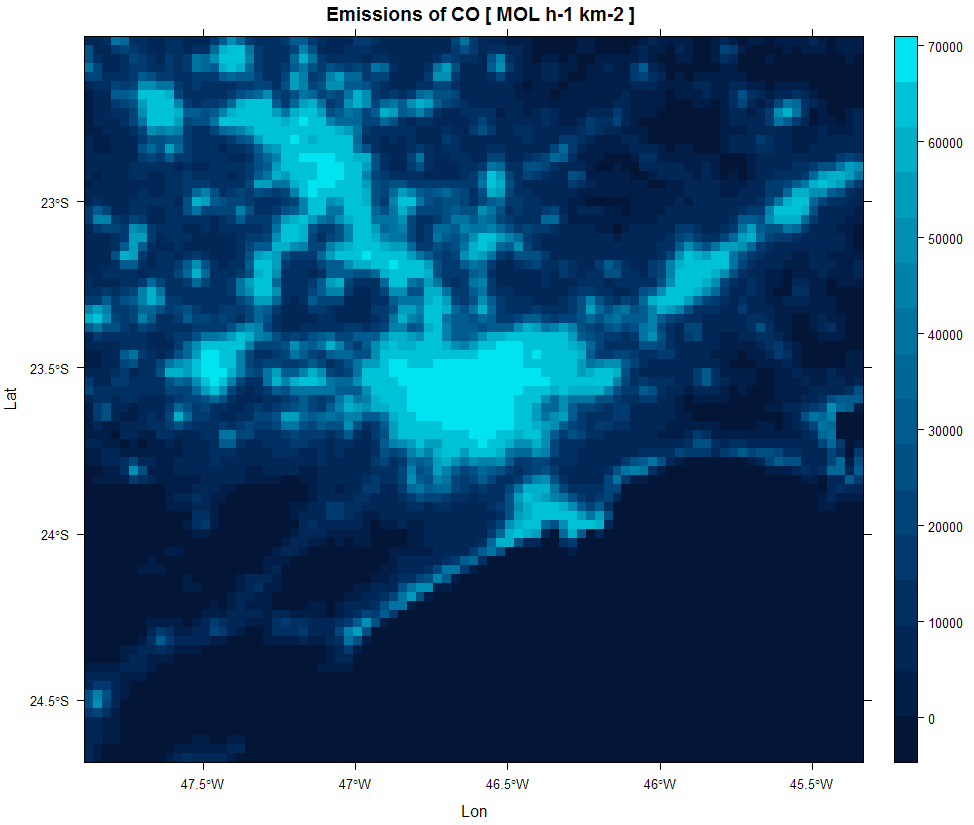
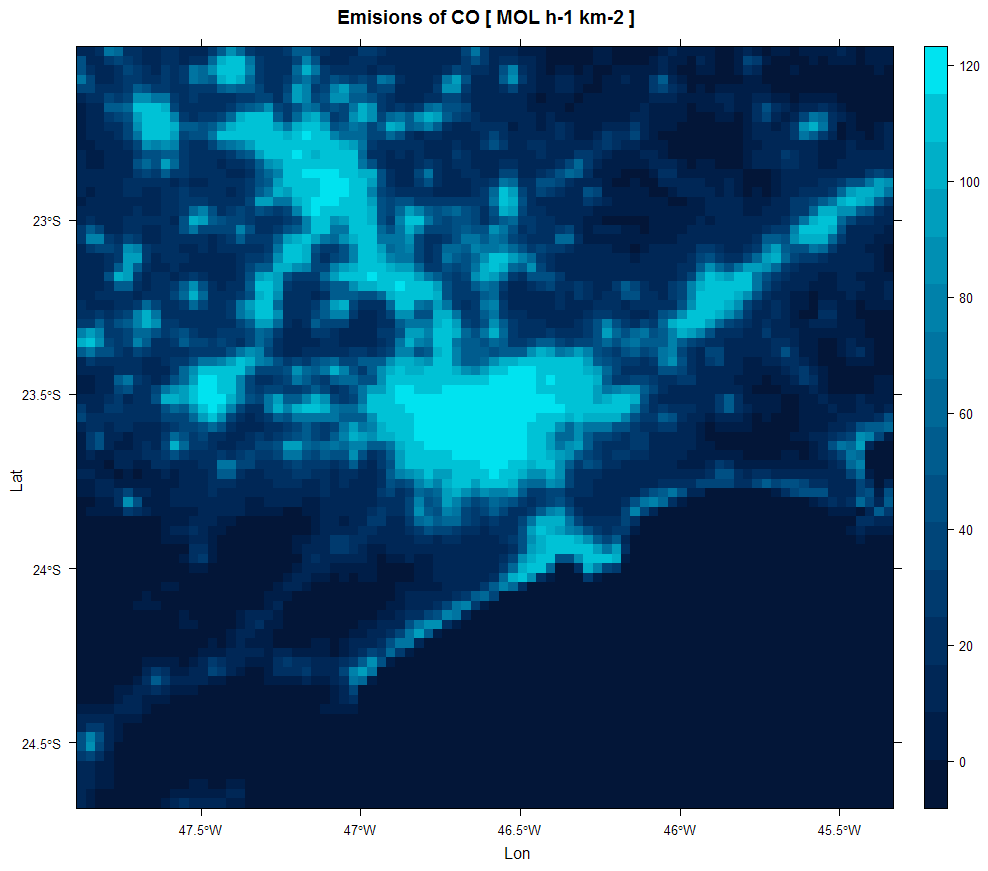
doc update 2

diff --git a/docs/index.html b/docs/index.html
@@ -154,38 +154,39 @@
 <a class="sourceLine" id="cb5-27" data-line-number="27"><span class="co"># Flex motorcycles             0.75 g/km 0.0000 g/km</span></a>
 <a class="sourceLine" id="cb5-28" data-line-number="28"></a>
 <a class="sourceLine" id="cb5-29" data-line-number="29">TOTAL  &lt;-<span class="st"> </span><span class="kw"><a href="reference/totalEmission.html">totalEmission</a></span>(fleet,EF,<span class="dt">pol =</span> <span class="kw">c</span>(<span class="st">"CO"</span>),<span class="dt">verbose =</span> T)</a>
-<a class="sourceLine" id="cb5-30" data-line-number="30"><span class="co"># [1] "Total of CO : 1128297.0993334 t year-1"</span></a></code></pre></div>
+<a class="sourceLine" id="cb5-30" data-line-number="30"><span class="co"># Total of CO : 1128297.0993334 t year-1</span></a></code></pre></div>
 <p><strong>II.</strong> Spatial distribution: The package has functions to read information from tables, georeferenced images (tiff), shapefiles (sh), OpenStreet maps (osm), global inventories in NetCDF format (nc) to calculate point, line and area sources.</p>
 <div class="sourceCode" id="cb6"><pre class="sourceCode r"><code class="sourceCode r"><a class="sourceLine" id="cb6-1" data-line-number="1">raster &lt;-<span class="st"> </span>raster<span class="op">::</span><span class="kw"><a href="http://www.rdocumentation.org/packages/raster/topics/raster">raster</a></span>(<span class="kw">paste</span>(<span class="kw">system.file</span>(<span class="st">"extdata"</span>, <span class="dt">package =</span> <span class="st">"EmissV"</span>),</a>
 <a class="sourceLine" id="cb6-2" data-line-number="2">                         <span class="st">"/dmsp.tiff"</span>,<span class="dt">sep=</span><span class="st">""</span>))</a>
 <a class="sourceLine" id="cb6-3" data-line-number="3"></a>
 <a class="sourceLine" id="cb6-4" data-line-number="4">grid   &lt;-<span class="st"> </span><span class="kw"><a href="reference/gridInfo.html">gridInfo</a></span>(<span class="kw">paste</span>(<span class="kw">system.file</span>(<span class="st">"extdata"</span>, <span class="dt">package =</span> <span class="st">"EmissV"</span>),</a>
 <a class="sourceLine" id="cb6-5" data-line-number="5">                   <span class="st">"/wrfinput_d02"</span>,<span class="dt">sep=</span><span class="st">""</span>))</a>
-<a class="sourceLine" id="cb6-6" data-line-number="6"><span class="co"># [1] "Grid information from: .../EmissV/extdata/wrfinput_d02"</span></a>
+<a class="sourceLine" id="cb6-6" data-line-number="6"><span class="co"># Grid information from: .../EmissV/extdata/wrfinput_d02</span></a>
 <a class="sourceLine" id="cb6-7" data-line-number="7"></a>
 <a class="sourceLine" id="cb6-8" data-line-number="8">shape  &lt;-<span class="st"> </span>raster<span class="op">::</span><span class="kw"><a href="http://www.rdocumentation.org/packages/raster/topics/shapefile">shapefile</a></span>(<span class="kw">paste</span>(<span class="kw">system.file</span>(<span class="st">"extdata"</span>, <span class="dt">package =</span> <span class="st">"EmissV"</span>),</a>
 <a class="sourceLine" id="cb6-9" data-line-number="9">                            <span class="st">"/BR.shp"</span>,<span class="dt">sep=</span><span class="st">""</span>),<span class="dt">verbose =</span> F)[<span class="dv">12</span>,<span class="dv">1</span>]</a>
 <a class="sourceLine" id="cb6-10" data-line-number="10">Minas_Gerais &lt;-<span class="st"> </span><span class="kw"><a href="reference/areaSource.html">areaSource</a></span>(shape,raster,grid,<span class="dt">name =</span> <span class="st">"Minas Gerais"</span>)</a>
-<a class="sourceLine" id="cb6-11" data-line-number="11"><span class="co"># [1] "processing Minas Gerais area ... "</span></a>
-<a class="sourceLine" id="cb6-12" data-line-number="12"><span class="co"># [1] "fraction of Minas Gerais area inside the domain = 0.0145921494236101"</span></a>
+<a class="sourceLine" id="cb6-11" data-line-number="11"><span class="co"># processing Minas Gerais area ...</span></a>
+<a class="sourceLine" id="cb6-12" data-line-number="12"><span class="co"># fraction of Minas Gerais area inside the domain = 0.0145921494236101</span></a>
 <a class="sourceLine" id="cb6-13" data-line-number="13"></a>
 <a class="sourceLine" id="cb6-14" data-line-number="14">shape  &lt;-<span class="st"> </span>raster<span class="op">::</span><span class="kw"><a href="http://www.rdocumentation.org/packages/raster/topics/shapefile">shapefile</a></span>(<span class="kw">paste</span>(<span class="kw">system.file</span>(<span class="st">"extdata"</span>, <span class="dt">package =</span> <span class="st">"EmissV"</span>),</a>
 <a class="sourceLine" id="cb6-15" data-line-number="15">                            <span class="st">"/BR.shp"</span>,<span class="dt">sep=</span><span class="st">""</span>),<span class="dt">verbose =</span> F)[<span class="dv">22</span>,<span class="dv">1</span>]</a>
 <a class="sourceLine" id="cb6-16" data-line-number="16">Sao_Paulo &lt;-<span class="st"> </span><span class="kw"><a href="reference/areaSource.html">areaSource</a></span>(shape,raster,grid,<span class="dt">name =</span> <span class="st">"Sao Paulo"</span>)</a>
-<a class="sourceLine" id="cb6-17" data-line-number="17"><span class="co"># [1] "processing Sao Paulo area ... "</span></a>
-<a class="sourceLine" id="cb6-18" data-line-number="18"><span class="co"># [1] "fraction of Sao Paulo area inside the domain = 0.474658563750987"</span></a>
+<a class="sourceLine" id="cb6-17" data-line-number="17"><span class="co"># processing Sao Paulo area ...</span></a>
+<a class="sourceLine" id="cb6-18" data-line-number="18"><span class="co"># fraction of Sao Paulo area inside the domain = 0.474658563750987</span></a>
 <a class="sourceLine" id="cb6-19" data-line-number="19"></a>
-<a class="sourceLine" id="cb6-20" data-line-number="20">sp<span class="op">::</span><span class="kw"><a href="http://www.rdocumentation.org/packages/sp/topics/spplot">spplot</a></span>(raster<span class="op">::</span><span class="kw"><a href="http://www.rdocumentation.org/packages/raster/topics/merge">merge</a></span>(TOTAL[[<span class="dv">1</span>]][[<span class="dv">1</span>]] <span class="op">*</span><span class="st"> </span>Sao_Paulo, TOTAL[[<span class="dv">1</span>]][[<span class="dv">2</span>]] <span class="op">*</span><span class="st"> </span>Minas_Gerais),</a>
-<a class="sourceLine" id="cb6-21" data-line-number="21">           <span class="dt">scales =</span> <span class="kw">list</span>(<span class="dt">draw=</span><span class="ot">TRUE</span>),<span class="dt">ylab=</span><span class="st">"Lat"</span>,<span class="dt">xlab=</span><span class="st">"Lon"</span>,</a>
-<a class="sourceLine" id="cb6-22" data-line-number="22">           <span class="dt">main=</span><span class="kw">list</span>(<span class="dt">label=</span><span class="st">"Emissions of CO [g/d]"</span>),</a>
-<a class="sourceLine" id="cb6-23" data-line-number="23">           <span class="dt">col.regions =</span> <span class="kw">c</span>(<span class="st">"#031638"</span>,<span class="st">"#001E48"</span>,<span class="st">"#002756"</span>,<span class="st">"#003062"</span>,</a>
-<a class="sourceLine" id="cb6-24" data-line-number="24">                           <span class="st">"#003A6E"</span>,<span class="st">"#004579"</span>,<span class="st">"#005084"</span>,<span class="st">"#005C8E"</span>,</a>
-<a class="sourceLine" id="cb6-25" data-line-number="25">                           <span class="st">"#006897"</span>,<span class="st">"#0074A1"</span>,<span class="st">"#0081AA"</span>,<span class="st">"#008FB3"</span>,</a>
-<a class="sourceLine" id="cb6-26" data-line-number="26">                           <span class="st">"#009EBD"</span>,<span class="st">"#00AFC8"</span>,<span class="st">"#00C2D6"</span>,<span class="st">"#00E3F0"</span>))</a></code></pre></div>
+<a class="sourceLine" id="cb6-20" data-line-number="20">sp<span class="op">::</span><span class="kw"><a href="http://www.rdocumentation.org/packages/sp/topics/spplot">spplot</a></span>(raster<span class="op">::</span><span class="kw"><a href="http://www.rdocumentation.org/packages/raster/topics/merge">merge</a></span>(<span class="kw">drop_units</span>(TOTAL<span class="op">$</span>CO[[<span class="dv">1</span>]]) <span class="op">*</span><span class="st"> </span>Sao_Paulo, </a>
+<a class="sourceLine" id="cb6-21" data-line-number="21">                         <span class="kw">drop_units</span>(TOTAL<span class="op">$</span>CO[[<span class="dv">2</span>]]) <span class="op">*</span><span class="st"> </span>Minas_Gerais),</a>
+<a class="sourceLine" id="cb6-22" data-line-number="22">           <span class="dt">scales =</span> <span class="kw">list</span>(<span class="dt">draw=</span><span class="ot">TRUE</span>),<span class="dt">ylab=</span><span class="st">"Lat"</span>,<span class="dt">xlab=</span><span class="st">"Lon"</span>,</a>
+<a class="sourceLine" id="cb6-23" data-line-number="23">           <span class="dt">main=</span><span class="kw">list</span>(<span class="dt">label=</span><span class="st">"Emissions of CO [g/d]"</span>),</a>
+<a class="sourceLine" id="cb6-24" data-line-number="24">           <span class="dt">col.regions =</span> <span class="kw">c</span>(<span class="st">"#031638"</span>,<span class="st">"#001E48"</span>,<span class="st">"#002756"</span>,<span class="st">"#003062"</span>,</a>
+<a class="sourceLine" id="cb6-25" data-line-number="25">                           <span class="st">"#003A6E"</span>,<span class="st">"#004579"</span>,<span class="st">"#005084"</span>,<span class="st">"#005C8E"</span>,</a>
+<a class="sourceLine" id="cb6-26" data-line-number="26">                           <span class="st">"#006897"</span>,<span class="st">"#0074A1"</span>,<span class="st">"#0081AA"</span>,<span class="st">"#008FB3"</span>,</a>
+<a class="sourceLine" id="cb6-27" data-line-number="27">                           <span class="st">"#009EBD"</span>,<span class="st">"#00AFC8"</span>,<span class="st">"#00C2D6"</span>,<span class="st">"#00E3F0"</span>))</a></code></pre></div>
 <p><img src="https://raw.githubusercontent.com/atmoschem/EmissV/master/CO_all.png" alt="Figure 1 - Emissions of CO using nocturnal lights."></p>
 <p><strong>III.</strong> Emission calculation: calculate the final emission from all different sources and converts to model units and resolution.</p>
 <div class="sourceCode" id="cb7"><pre class="sourceCode r"><code class="sourceCode r"><a class="sourceLine" id="cb7-1" data-line-number="1">CO_emissions &lt;-<span class="st"> </span><span class="kw"><a href="reference/emission.html">emission</a></span>(TOTAL,<span class="st">"CO"</span>,<span class="kw">list</span>(<span class="dt">SP =</span> Sao_Paulo, <span class="dt">MG =</span> Minas_Gerais),grid,<span class="dt">mm=</span><span class="dv">28</span>, <span class="dt">plot =</span> T)</a>
-<a class="sourceLine" id="cb7-2" data-line-number="2"><span class="co"># [1] "calculating emissions for CO using molar mass = 28 ..."</span></a></code></pre></div>
+<a class="sourceLine" id="cb7-2" data-line-number="2"><span class="co"># calculating emissions for CO using molar mass = 28 ...</span></a></code></pre></div>
 <p><img src="https://raw.githubusercontent.com/atmoschem/EmissV/master/CO_final.png" alt="Figure 2 - CO emissions ready for use in air quality model."></p>
 <p><strong>IV.</strong> Temporal distribution: the package has a set of hourly profiles that represent the mean activity for each day of the week calculated from traffic counts of toll stations located in São Paulo city.</p>
 <div class="sourceCode" id="cb8"><pre class="sourceCode r"><code class="sourceCode r"><a class="sourceLine" id="cb8-1" data-line-number="1"><span class="kw">data</span>(perfil)</a>

diff --git a/docs/paper.html b/docs/paper.html
@@ -219,11 +219,11 @@
 <a class="sourceLine" id="cb1-28" data-line-number="28"><span class="co"># Flex Motorcycles             0.75 g/km 0.0000 g/km</span></a>
 <a class="sourceLine" id="cb1-29" data-line-number="29"></a>
 <a class="sourceLine" id="cb1-30" data-line-number="30">TOTAL  &lt;-<span class="st"> </span><span class="kw"><a href="reference/totalEmission.html">totalEmission</a></span>(fleet,EF,<span class="dt">pol =</span> <span class="kw">c</span>(<span class="st">"CO"</span>),<span class="dt">verbose =</span> T)</a>
-<a class="sourceLine" id="cb1-31" data-line-number="31"><span class="co"># [1] "Total of CO : 1128297.0993334 t year-1"</span></a>
+<a class="sourceLine" id="cb1-31" data-line-number="31"><span class="co"># Total of CO : 1128297.0993334 t year-1</span></a>
 <a class="sourceLine" id="cb1-32" data-line-number="32"></a>
 <a class="sourceLine" id="cb1-33" data-line-number="33">grid   &lt;-<span class="st"> </span><span class="kw"><a href="reference/gridInfo.html">gridInfo</a></span>(<span class="kw">paste</span>(<span class="kw">system.file</span>(<span class="st">"extdata"</span>, <span class="dt">package =</span> <span class="st">"EmissV"</span>),</a>
 <a class="sourceLine" id="cb1-34" data-line-number="34">                   <span class="st">"/wrfinput_d02"</span>,<span class="dt">sep=</span><span class="st">""</span>))</a>
-<a class="sourceLine" id="cb1-35" data-line-number="35"><span class="co"># [1] "Grid information from: .../EmissV/extdata/wrfinput_d02"</span></a>
+<a class="sourceLine" id="cb1-35" data-line-number="35"><span class="co"># Grid information from: .../EmissV/extdata/wrfinput_d02</span></a>
 <a class="sourceLine" id="cb1-36" data-line-number="36"></a>
 <a class="sourceLine" id="cb1-37" data-line-number="37">raster &lt;-<span class="st"> </span>raster<span class="op">::</span><span class="kw"><a href="http://www.rdocumentation.org/packages/raster/topics/raster">raster</a></span>(<span class="kw">paste</span>(<span class="kw">system.file</span>(<span class="st">"extdata"</span>, <span class="dt">package =</span> <span class="st">"EmissV"</span>),</a>
 <a class="sourceLine" id="cb1-38" data-line-number="38">                         <span class="st">"/dmsp_hi-res.tiff"</span>,<span class="dt">sep=</span><span class="st">""</span>))</a>
@@ -232,27 +232,28 @@
 <a class="sourceLine" id="cb1-41" data-line-number="41">                            <span class="st">"/BR.shp"</span>,<span class="dt">sep=</span><span class="st">""</span>),<span class="dt">verbose =</span> F)[<span class="dv">12</span>,<span class="dv">1</span>]</a>
 <a class="sourceLine" id="cb1-42" data-line-number="42">                            </a>
 <a class="sourceLine" id="cb1-43" data-line-number="43">Minas_Gerais &lt;-<span class="st"> </span><span class="kw"><a href="reference/areaSource.html">areaSource</a></span>(shape,raster,grid,<span class="dt">name =</span> <span class="st">"Minas Gerais"</span>)</a>
-<a class="sourceLine" id="cb1-44" data-line-number="44"><span class="co"># [1] "processing Minas Gerais area ... "</span></a>
-<a class="sourceLine" id="cb1-45" data-line-number="45"><span class="co"># [1] "fraction of Minas Gerais area inside the domain = 0.0147607845622591"</span></a>
+<a class="sourceLine" id="cb1-44" data-line-number="44"><span class="co"># processing Minas Gerais area ...</span></a>
+<a class="sourceLine" id="cb1-45" data-line-number="45"><span class="co"># fraction of Minas Gerais area inside the domain = 0.0147607845622591</span></a>
 <a class="sourceLine" id="cb1-46" data-line-number="46"></a>
 <a class="sourceLine" id="cb1-47" data-line-number="47">shape  &lt;-<span class="st"> </span>raster<span class="op">::</span><span class="kw"><a href="http://www.rdocumentation.org/packages/raster/topics/shapefile">shapefile</a></span>(<span class="kw">paste</span>(<span class="kw">system.file</span>(<span class="st">"extdata"</span>, <span class="dt">package =</span> <span class="st">"EmissV"</span>),</a>
 <a class="sourceLine" id="cb1-48" data-line-number="48">                            <span class="st">"/BR.shp"</span>,<span class="dt">sep=</span><span class="st">""</span>),<span class="dt">verbose =</span> F)[<span class="dv">22</span>,<span class="dv">1</span>]</a>
 <a class="sourceLine" id="cb1-49" data-line-number="49">                            </a>
 <a class="sourceLine" id="cb1-50" data-line-number="50">Sao_Paulo &lt;-<span class="st"> </span><span class="kw"><a href="reference/areaSource.html">areaSource</a></span>(shape,raster,grid,<span class="dt">name =</span> <span class="st">"Sao Paulo"</span>)</a>
-<a class="sourceLine" id="cb1-51" data-line-number="51"><span class="co"># [1] "processing Sao Paulo area ... "</span></a>
-<a class="sourceLine" id="cb1-52" data-line-number="52"><span class="co"># [1] "fraction of Sao Paulo area inside the domain = 0.473260323300595"</span></a>
+<a class="sourceLine" id="cb1-51" data-line-number="51"><span class="co"># processing Sao Paulo area ...</span></a>
+<a class="sourceLine" id="cb1-52" data-line-number="52"><span class="co"># fraction of Sao Paulo area inside the domain = 0.473260323300595</span></a>
 <a class="sourceLine" id="cb1-53" data-line-number="53"></a>
-<a class="sourceLine" id="cb1-54" data-line-number="54">sp<span class="op">::</span><span class="kw"><a href="http://www.rdocumentation.org/packages/sp/topics/spplot">spplot</a></span>(raster<span class="op">::</span><span class="kw"><a href="http://www.rdocumentation.org/packages/raster/topics/merge">merge</a></span>(TOTAL[[<span class="dv">1</span>]][[<span class="dv">1</span>]] <span class="op">*</span><span class="st"> </span>Sao_Paulo, TOTAL[[<span class="dv">1</span>]][[<span class="dv">2</span>]] <span class="op">*</span><span class="st"> </span>Minas_Gerais),</a>
-<a class="sourceLine" id="cb1-55" data-line-number="55">           <span class="dt">scales =</span> <span class="kw">list</span>(<span class="dt">draw=</span><span class="ot">TRUE</span>),<span class="dt">ylab=</span><span class="st">"Lat"</span>,<span class="dt">xlab=</span><span class="st">"Lon"</span>,</a>
-<a class="sourceLine" id="cb1-56" data-line-number="56">           <span class="dt">main=</span><span class="kw">list</span>(<span class="dt">label=</span><span class="st">"Emissions of CO [g/d]"</span>),</a>
-<a class="sourceLine" id="cb1-57" data-line-number="57">           <span class="dt">col.regions =</span> <span class="kw">c</span>(<span class="st">"#031638"</span>,<span class="st">"#001E48"</span>,<span class="st">"#002756"</span>,<span class="st">"#003062"</span>,</a>
-<a class="sourceLine" id="cb1-58" data-line-number="58">                           <span class="st">"#003A6E"</span>,<span class="st">"#004579"</span>,<span class="st">"#005084"</span>,<span class="st">"#005C8E"</span>,</a>
-<a class="sourceLine" id="cb1-59" data-line-number="59">                           <span class="st">"#006897"</span>,<span class="st">"#0074A1"</span>,<span class="st">"#0081AA"</span>,<span class="st">"#008FB3"</span>,</a>
-<a class="sourceLine" id="cb1-60" data-line-number="60">                           <span class="st">"#009EBD"</span>,<span class="st">"#00AFC8"</span>,<span class="st">"#00C2D6"</span>,<span class="st">"#00E3F0"</span>))</a>
-<a class="sourceLine" id="cb1-61" data-line-number="61"></a>
-<a class="sourceLine" id="cb1-62" data-line-number="62">CO_emissions &lt;-<span class="st"> </span><span class="kw"><a href="reference/emission.html">emission</a></span>(TOTAL,<span class="st">"CO"</span>,<span class="kw">list</span>(<span class="dt">SP =</span> Sao_Paulo, <span class="dt">MG =</span> Minas_Gerais),</a>
-<a class="sourceLine" id="cb1-63" data-line-number="63">                         grid,<span class="dt">mm=</span><span class="dv">28</span>, <span class="dt">plot =</span> T)</a>
-<a class="sourceLine" id="cb1-64" data-line-number="64"><span class="co"># [1] "calculating emissions for CO using molar mass = 28 ..."</span></a></code></pre></div>
+<a class="sourceLine" id="cb1-54" data-line-number="54">sp<span class="op">::</span><span class="kw"><a href="http://www.rdocumentation.org/packages/sp/topics/spplot">spplot</a></span>(raster<span class="op">::</span><span class="kw"><a href="http://www.rdocumentation.org/packages/raster/topics/merge">merge</a></span>(<span class="kw">drop_units</span>(TOTAL<span class="op">$</span>CO[[<span class="dv">1</span>]]) <span class="op">*</span><span class="st"> </span>Sao_Paulo, </a>
+<a class="sourceLine" id="cb1-55" data-line-number="55">                         <span class="kw">drop_units</span>(TOTAL<span class="op">$</span>CO[[<span class="dv">2</span>]]) <span class="op">*</span><span class="st"> </span>Minas_Gerais),</a>
+<a class="sourceLine" id="cb1-56" data-line-number="56">           <span class="dt">scales =</span> <span class="kw">list</span>(<span class="dt">draw=</span><span class="ot">TRUE</span>),<span class="dt">ylab=</span><span class="st">"Lat"</span>,<span class="dt">xlab=</span><span class="st">"Lon"</span>,</a>
+<a class="sourceLine" id="cb1-57" data-line-number="57">           <span class="co"># main=list(label="Emissions of CO [g/d]"),</span></a>
+<a class="sourceLine" id="cb1-58" data-line-number="58">           <span class="dt">col.regions =</span> <span class="kw">c</span>(<span class="st">"#031638"</span>,<span class="st">"#001E48"</span>,<span class="st">"#002756"</span>,<span class="st">"#003062"</span>,</a>
+<a class="sourceLine" id="cb1-59" data-line-number="59">                           <span class="st">"#003A6E"</span>,<span class="st">"#004579"</span>,<span class="st">"#005084"</span>,<span class="st">"#005C8E"</span>,</a>
+<a class="sourceLine" id="cb1-60" data-line-number="60">                           <span class="st">"#006897"</span>,<span class="st">"#0074A1"</span>,<span class="st">"#0081AA"</span>,<span class="st">"#008FB3"</span>,</a>
+<a class="sourceLine" id="cb1-61" data-line-number="61">                           <span class="st">"#009EBD"</span>,<span class="st">"#00AFC8"</span>,<span class="st">"#00C2D6"</span>,<span class="st">"#00E3F0"</span>))</a>
+<a class="sourceLine" id="cb1-62" data-line-number="62"></a>
+<a class="sourceLine" id="cb1-63" data-line-number="63">CO_emissions &lt;-<span class="st"> </span><span class="kw"><a href="reference/emission.html">emission</a></span>(TOTAL,<span class="st">"CO"</span>,<span class="kw">list</span>(<span class="dt">SP =</span> Sao_Paulo, <span class="dt">MG =</span> Minas_Gerais),</a>
+<a class="sourceLine" id="cb1-64" data-line-number="64">                         grid,<span class="dt">mm=</span><span class="dv">28</span>, <span class="dt">plot =</span> T)</a>
+<a class="sourceLine" id="cb1-65" data-line-number="65"><span class="co"># calculating emissions for CO using molar mass = 28 ...</span></a></code></pre></div>
 <p><img src="https://raw.githubusercontent.com/atmoschem/EmissV/master/CO_all.png" alt="Emissions of CO using nocturnal lights."></p>
 <p><img src="https://raw.githubusercontent.com/atmoschem/EmissV/master/CO_final.png" alt="CO emissions ready for use in air quality model."></p>
 <p>The emissions of CO calculated in this example can be seen in Figure 1 in <code>g/d</code> (by pixel) and the final emissions on Figure 2 in <code>MOL h-1 km-1</code> (by model grid cell). This emissions can be written to WRF-Chem emission files using some package that makes the interface with NetCDF format such as <strong>ncdf4</strong> [@ncdf4], <strong>RNetCDF</strong> [@RNetCDF], <strong>ncdf.tools</strong> [@ncdftools] or with the <strong>eixport</strong> [@eixport].</p>

diff --git a/docs/reference/areaSource.html b/docs/reference/areaSource.html
@@ -156,7 +156,8 @@
 <span class='no'>shape</span>  <span class='kw'>&lt;-</span> <span class='no'>shape</span>[<span class='fl'>22</span>,<span class='fl'>1</span>] <span class='co'># subset for Sao Paulo - BR</span>
 <span class='no'>raster</span> <span class='kw'>&lt;-</span> <span class='kw pkg'>raster</span><span class='kw ns'>::</span><span class='fu'><a href='http://www.rdocumentation.org/packages/raster/topics/raster'>raster</a></span>(<span class='fu'>paste</span>(<span class='fu'>system.file</span>(<span class='st'>"extdata"</span>, <span class='kw'>package</span> <span class='kw'>=</span> <span class='st'>"EmissV"</span>),
                          <span class='st'>"/dmsp.tiff"</span>,<span class='kw'>sep</span><span class='kw'>=</span><span class='st'>""</span>))
-<span class='no'>grid</span>   <span class='kw'>&lt;-</span> <span class='fu'><a href='gridInfo.html'>gridInfo</a></span>(<span class='fu'>paste</span>(<span class='fu'>system.file</span>(<span class='st'>"extdata"</span>, <span class='kw'>package</span> <span class='kw'>=</span> <span class='st'>"EmissV"</span>),<span class='st'>"/wrfinput_d02"</span>,<span class='kw'>sep</span><span class='kw'>=</span><span class='st'>""</span>))</div><div class='output co'>#&gt; Grid information from: C:/Users/Schuch/Documents/EmissV/inst/extdata/wrfinput_d02 </div><div class='input'><span class='no'>SP</span>     <span class='kw'>&lt;-</span> <span class='fu'>areaSource</span>(<span class='no'>shape</span>,<span class='no'>raster</span>,<span class='no'>grid</span>,<span class='kw'>name</span> <span class='kw'>=</span> <span class='st'>"SPMA"</span>)</div><div class='output co'>#&gt; processing SPMA area ... fraction of SPMA area inside the domain = 0.474658563750987</div><div class='input'><span class='kw pkg'>sp</span><span class='kw ns'>::</span><span class='fu'><a href='http://www.rdocumentation.org/packages/sp/topics/spplot'>spplot</a></span>(<span class='no'>SP</span>,<span class='kw'>scales</span> <span class='kw'>=</span> <span class='fu'>list</span>(<span class='kw'>draw</span><span class='kw'>=</span><span class='fl'>TRUE</span>),<span class='kw'>ylab</span><span class='kw'>=</span><span class='st'>"Lat"</span>,<span class='kw'>xlab</span><span class='kw'>=</span><span class='st'>"Lon"</span>,
+<span class='no'>grid</span>   <span class='kw'>&lt;-</span> <span class='fu'><a href='gridInfo.html'>gridInfo</a></span>(<span class='fu'>paste</span>(<span class='fu'>system.file</span>(<span class='st'>"extdata"</span>, <span class='kw'>package</span> <span class='kw'>=</span> <span class='st'>"EmissV"</span>),<span class='st'>"/wrfinput_d02"</span>,<span class='kw'>sep</span><span class='kw'>=</span><span class='st'>""</span>))</div><div class='output co'>#&gt; Grid information from: C:/Users/Schuch/Documents/EmissV/inst/extdata/wrfinput_d02 </div><div class='input'><span class='no'>SP</span>     <span class='kw'>&lt;-</span> <span class='fu'>areaSource</span>(<span class='no'>shape</span>,<span class='no'>raster</span>,<span class='no'>grid</span>,<span class='kw'>name</span> <span class='kw'>=</span> <span class='st'>"SPMA"</span>)</div><div class='output co'>#&gt; processing SPMA area ... 
+#&gt; fraction of SPMA area inside the domain = 0.474658563750987</div><div class='input'><span class='kw pkg'>sp</span><span class='kw ns'>::</span><span class='fu'><a href='http://www.rdocumentation.org/packages/sp/topics/spplot'>spplot</a></span>(<span class='no'>SP</span>,<span class='kw'>scales</span> <span class='kw'>=</span> <span class='fu'>list</span>(<span class='kw'>draw</span><span class='kw'>=</span><span class='fl'>TRUE</span>),<span class='kw'>ylab</span><span class='kw'>=</span><span class='st'>"Lat"</span>,<span class='kw'>xlab</span><span class='kw'>=</span><span class='st'>"Lon"</span>,
            <span class='kw'>main</span><span class='kw'>=</span><span class='fu'>list</span>(<span class='kw'>label</span><span class='kw'>=</span><span class='st'>"Spatial Distribution by Lights for Sao Paulo - Brazil"</span>),
            <span class='kw'>col.regions</span> <span class='kw'>=</span> <span class='fu'>c</span>(<span class='st'>"#031638"</span>,<span class='st'>"#001E48"</span>,<span class='st'>"#002756"</span>,<span class='st'>"#003062"</span>,
                            <span class='st'>"#003A6E"</span>,<span class='st'>"#004579"</span>,<span class='st'>"#005084"</span>,<span class='st'>"#005C8E"</span>,

diff --git a/docs/reference/emission.html b/docs/reference/emission.html
@@ -200,7 +200,9 @@
 <span class='no'>grid</span>   <span class='kw'>&lt;-</span> <span class='fu'><a href='gridInfo.html'>gridInfo</a></span>(<span class='fu'>paste0</span>(<span class='fu'>system.file</span>(<span class='st'>"extdata"</span>, <span class='kw'>package</span> <span class='kw'>=</span> <span class='st'>"EmissV"</span>),<span class='st'>"/wrfinput_d01"</span>))</div><div class='output co'>#&gt; Grid information from: C:/Users/Schuch/Documents/EmissV/inst/extdata/wrfinput_d01 </div><div class='input'><span class='no'>shape</span>  <span class='kw'>&lt;-</span> <span class='kw pkg'>raster</span><span class='kw ns'>::</span><span class='fu'><a href='http://www.rdocumentation.org/packages/raster/topics/shapefile'>shapefile</a></span>(<span class='fu'>paste0</span>(<span class='fu'>system.file</span>(<span class='st'>"extdata"</span>, <span class='kw'>package</span> <span class='kw'>=</span> <span class='st'>"EmissV"</span>),<span class='st'>"/BR.shp"</span>))
 <span class='no'>raster</span> <span class='kw'>&lt;-</span> <span class='kw pkg'>raster</span><span class='kw ns'>::</span><span class='fu'><a href='http://www.rdocumentation.org/packages/raster/topics/raster'>raster</a></span>(<span class='fu'>paste0</span>(<span class='fu'>system.file</span>(<span class='st'>"extdata"</span>, <span class='kw'>package</span> <span class='kw'>=</span> <span class='st'>"EmissV"</span>),<span class='st'>"/dmsp.tiff"</span>))
 
-<span class='no'>SP</span>     <span class='kw'>&lt;-</span> <span class='fu'><a href='areaSource.html'>areaSource</a></span>(<span class='no'>shape</span>[<span class='fl'>22</span>,<span class='fl'>1</span>],<span class='no'>raster</span>,<span class='no'>grid</span>,<span class='kw'>name</span> <span class='kw'>=</span> <span class='st'>"SP"</span>)</div><div class='output co'>#&gt; processing SP area ... fraction of SP area inside the domain = 0.955761973247402</div><div class='input'><span class='no'>RJ</span>     <span class='kw'>&lt;-</span> <span class='fu'><a href='areaSource.html'>areaSource</a></span>(<span class='no'>shape</span>[<span class='fl'>17</span>,<span class='fl'>1</span>],<span class='no'>raster</span>,<span class='no'>grid</span>,<span class='kw'>name</span> <span class='kw'>=</span> <span class='st'>"RJ"</span>)</div><div class='output co'>#&gt; processing RJ area ... fraction of RJ area inside the domain = 0.748007015306122</div><div class='input'>
+<span class='no'>SP</span>     <span class='kw'>&lt;-</span> <span class='fu'><a href='areaSource.html'>areaSource</a></span>(<span class='no'>shape</span>[<span class='fl'>22</span>,<span class='fl'>1</span>],<span class='no'>raster</span>,<span class='no'>grid</span>,<span class='kw'>name</span> <span class='kw'>=</span> <span class='st'>"SP"</span>)</div><div class='output co'>#&gt; processing SP area ... 
+#&gt; fraction of SP area inside the domain = 0.955761973247402</div><div class='input'><span class='no'>RJ</span>     <span class='kw'>&lt;-</span> <span class='fu'><a href='areaSource.html'>areaSource</a></span>(<span class='no'>shape</span>[<span class='fl'>17</span>,<span class='fl'>1</span>],<span class='no'>raster</span>,<span class='no'>grid</span>,<span class='kw'>name</span> <span class='kw'>=</span> <span class='st'>"RJ"</span>)</div><div class='output co'>#&gt; processing RJ area ... 
+#&gt; fraction of RJ area inside the domain = 0.748007015306122</div><div class='input'>
 <span class='no'>e_CO</span>   <span class='kw'>&lt;-</span> <span class='fu'>emission</span>(<span class='no'>TOTAL</span>,<span class='st'>"CO"</span>,<span class='fu'>list</span>(<span class='kw'>SP</span> <span class='kw'>=</span> <span class='no'>SP</span>, <span class='kw'>RJ</span> <span class='kw'>=</span> <span class='no'>RJ</span>),<span class='no'>grid</span>,<span class='kw'>mm</span><span class='kw'>=</span><span class='fl'>28</span>)</div><div class='output co'>#&gt; calculating emissions for CO using molar mass = 28 ...</div><div class='input'>
 </div></pre>
   </div>

diff --git a/README.md b/README.md
@@ -91,7 +91,7 @@ EF     <- emissionFactor(example = T)
 # Flex motorcycles             0.75 g/km 0.0000 g/km
 
 TOTAL  <- totalEmission(fleet,EF,pol = c("CO"),verbose = T)
-# [1] "Total of CO : 1128297.0993334 t year-1"
+# Total of CO : 1128297.0993334 t year-1
 ```
 
 **II.** Spatial distribution: The package has functions to read information from tables, georeferenced images (tiff), shapefiles (sh), OpenStreet maps (osm), global inventories in NetCDF format (nc) to calculate point, line and area sources.
@@ -102,21 +102,22 @@ raster <- raster::raster(paste(system.file("extdata", package = "EmissV"),
 
 grid   <- gridInfo(paste(system.file("extdata", package = "EmissV"),
                    "/wrfinput_d02",sep=""))
-# [1] "Grid information from: .../EmissV/extdata/wrfinput_d02"
+# Grid information from: .../EmissV/extdata/wrfinput_d02
 
 shape  <- raster::shapefile(paste(system.file("extdata", package = "EmissV"),
                             "/BR.shp",sep=""),verbose = F)[12,1]
 Minas_Gerais <- areaSource(shape,raster,grid,name = "Minas Gerais")
-# [1] "processing Minas Gerais area ... "
-# [1] "fraction of Minas Gerais area inside the domain = 0.0145921494236101"
+# processing Minas Gerais area ...
+# fraction of Minas Gerais area inside the domain = 0.0145921494236101
 
 shape  <- raster::shapefile(paste(system.file("extdata", package = "EmissV"),
                             "/BR.shp",sep=""),verbose = F)[22,1]
 Sao_Paulo <- areaSource(shape,raster,grid,name = "Sao Paulo")
-# [1] "processing Sao Paulo area ... "
-# [1] "fraction of Sao Paulo area inside the domain = 0.474658563750987"
+# processing Sao Paulo area ...
+# fraction of Sao Paulo area inside the domain = 0.474658563750987
 
-sp::spplot(raster::merge(TOTAL[[1]][[1]] * Sao_Paulo, TOTAL[[1]][[2]] * Minas_Gerais),
+sp::spplot(raster::merge(drop_units(TOTAL$CO[[1]]) * Sao_Paulo, 
+                         drop_units(TOTAL$CO[[2]]) * Minas_Gerais),
            scales = list(draw=TRUE),ylab="Lat",xlab="Lon",
            main=list(label="Emissions of CO [g/d]"),
            col.regions = c("#031638","#001E48","#002756","#003062",
@@ -129,7 +130,7 @@ sp::spplot(raster::merge(TOTAL[[1]][[1]] * Sao_Paulo, TOTAL[[1]][[2]] * Minas_Ge
 **III.** Emission calculation: calculate the final emission from all different sources and converts to model units and resolution.
 ``` r
 CO_emissions <- emission(TOTAL,"CO",list(SP = Sao_Paulo, MG = Minas_Gerais),grid,mm=28, plot = T)
-# [1] "calculating emissions for CO using molar mass = 28 ..."
+# calculating emissions for CO using molar mass = 28 ...
 ```
 ![*Figure 2* - CO emissions ready for use in air quality model.](https://raw.githubusercontent.com/atmoschem/EmissV/master/CO_final.png)
 

diff --git a/paper.md b/paper.md
@@ -95,11 +95,11 @@ EF     <- emissionFactor(example = T)
 # Flex Motorcycles             0.75 g/km 0.0000 g/km
 
 TOTAL  <- totalEmission(fleet,EF,pol = c("CO"),verbose = T)
-# [1] "Total of CO : 1128297.0993334 t year-1"
+# Total of CO : 1128297.0993334 t year-1
 
 grid   <- gridInfo(paste(system.file("extdata", package = "EmissV"),
                    "/wrfinput_d02",sep=""))
-# [1] "Grid information from: .../EmissV/extdata/wrfinput_d02"
+# Grid information from: .../EmissV/extdata/wrfinput_d02
 
 raster <- raster::raster(paste(system.file("extdata", package = "EmissV"),
                          "/dmsp_hi-res.tiff",sep=""))
@@ -108,19 +108,20 @@ shape  <- raster::shapefile(paste(system.file("extdata", package = "EmissV"),
                             "/BR.shp",sep=""),verbose = F)[12,1]
                             
 Minas_Gerais <- areaSource(shape,raster,grid,name = "Minas Gerais")
-# [1] "processing Minas Gerais area ... "
-# [1] "fraction of Minas Gerais area inside the domain = 0.0147607845622591"
+# processing Minas Gerais area ...
+# fraction of Minas Gerais area inside the domain = 0.0147607845622591
 
 shape  <- raster::shapefile(paste(system.file("extdata", package = "EmissV"),
                             "/BR.shp",sep=""),verbose = F)[22,1]
                             
 Sao_Paulo <- areaSource(shape,raster,grid,name = "Sao Paulo")
-# [1] "processing Sao Paulo area ... "
-# [1] "fraction of Sao Paulo area inside the domain = 0.473260323300595"
+# processing Sao Paulo area ...
+# fraction of Sao Paulo area inside the domain = 0.473260323300595
 
-sp::spplot(raster::merge(TOTAL[[1]][[1]] * Sao_Paulo, TOTAL[[1]][[2]] * Minas_Gerais),
+sp::spplot(raster::merge(drop_units(TOTAL$CO[[1]]) * Sao_Paulo, 
+                         drop_units(TOTAL$CO[[2]]) * Minas_Gerais),
            scales = list(draw=TRUE),ylab="Lat",xlab="Lon",
-           main=list(label="Emissions of CO [g/d]"),
+           # main=list(label="Emissions of CO [g/d]"),
            col.regions = c("#031638","#001E48","#002756","#003062",
                            "#003A6E","#004579","#005084","#005C8E",
                            "#006897","#0074A1","#0081AA","#008FB3",
@@ -128,7 +129,7 @@ sp::spplot(raster::merge(TOTAL[[1]][[1]] * Sao_Paulo, TOTAL[[1]][[2]] * Minas_Ge
 
 CO_emissions <- emission(TOTAL,"CO",list(SP = Sao_Paulo, MG = Minas_Gerais),
                          grid,mm=28, plot = T)
-# [1] "calculating emissions for CO using molar mass = 28 ..."
+# calculating emissions for CO using molar mass = 28 ...
 ```
 
 ![Emissions of CO using nocturnal lights.](https://raw.githubusercontent.com/atmoschem/EmissV/master/CO_all.png)
